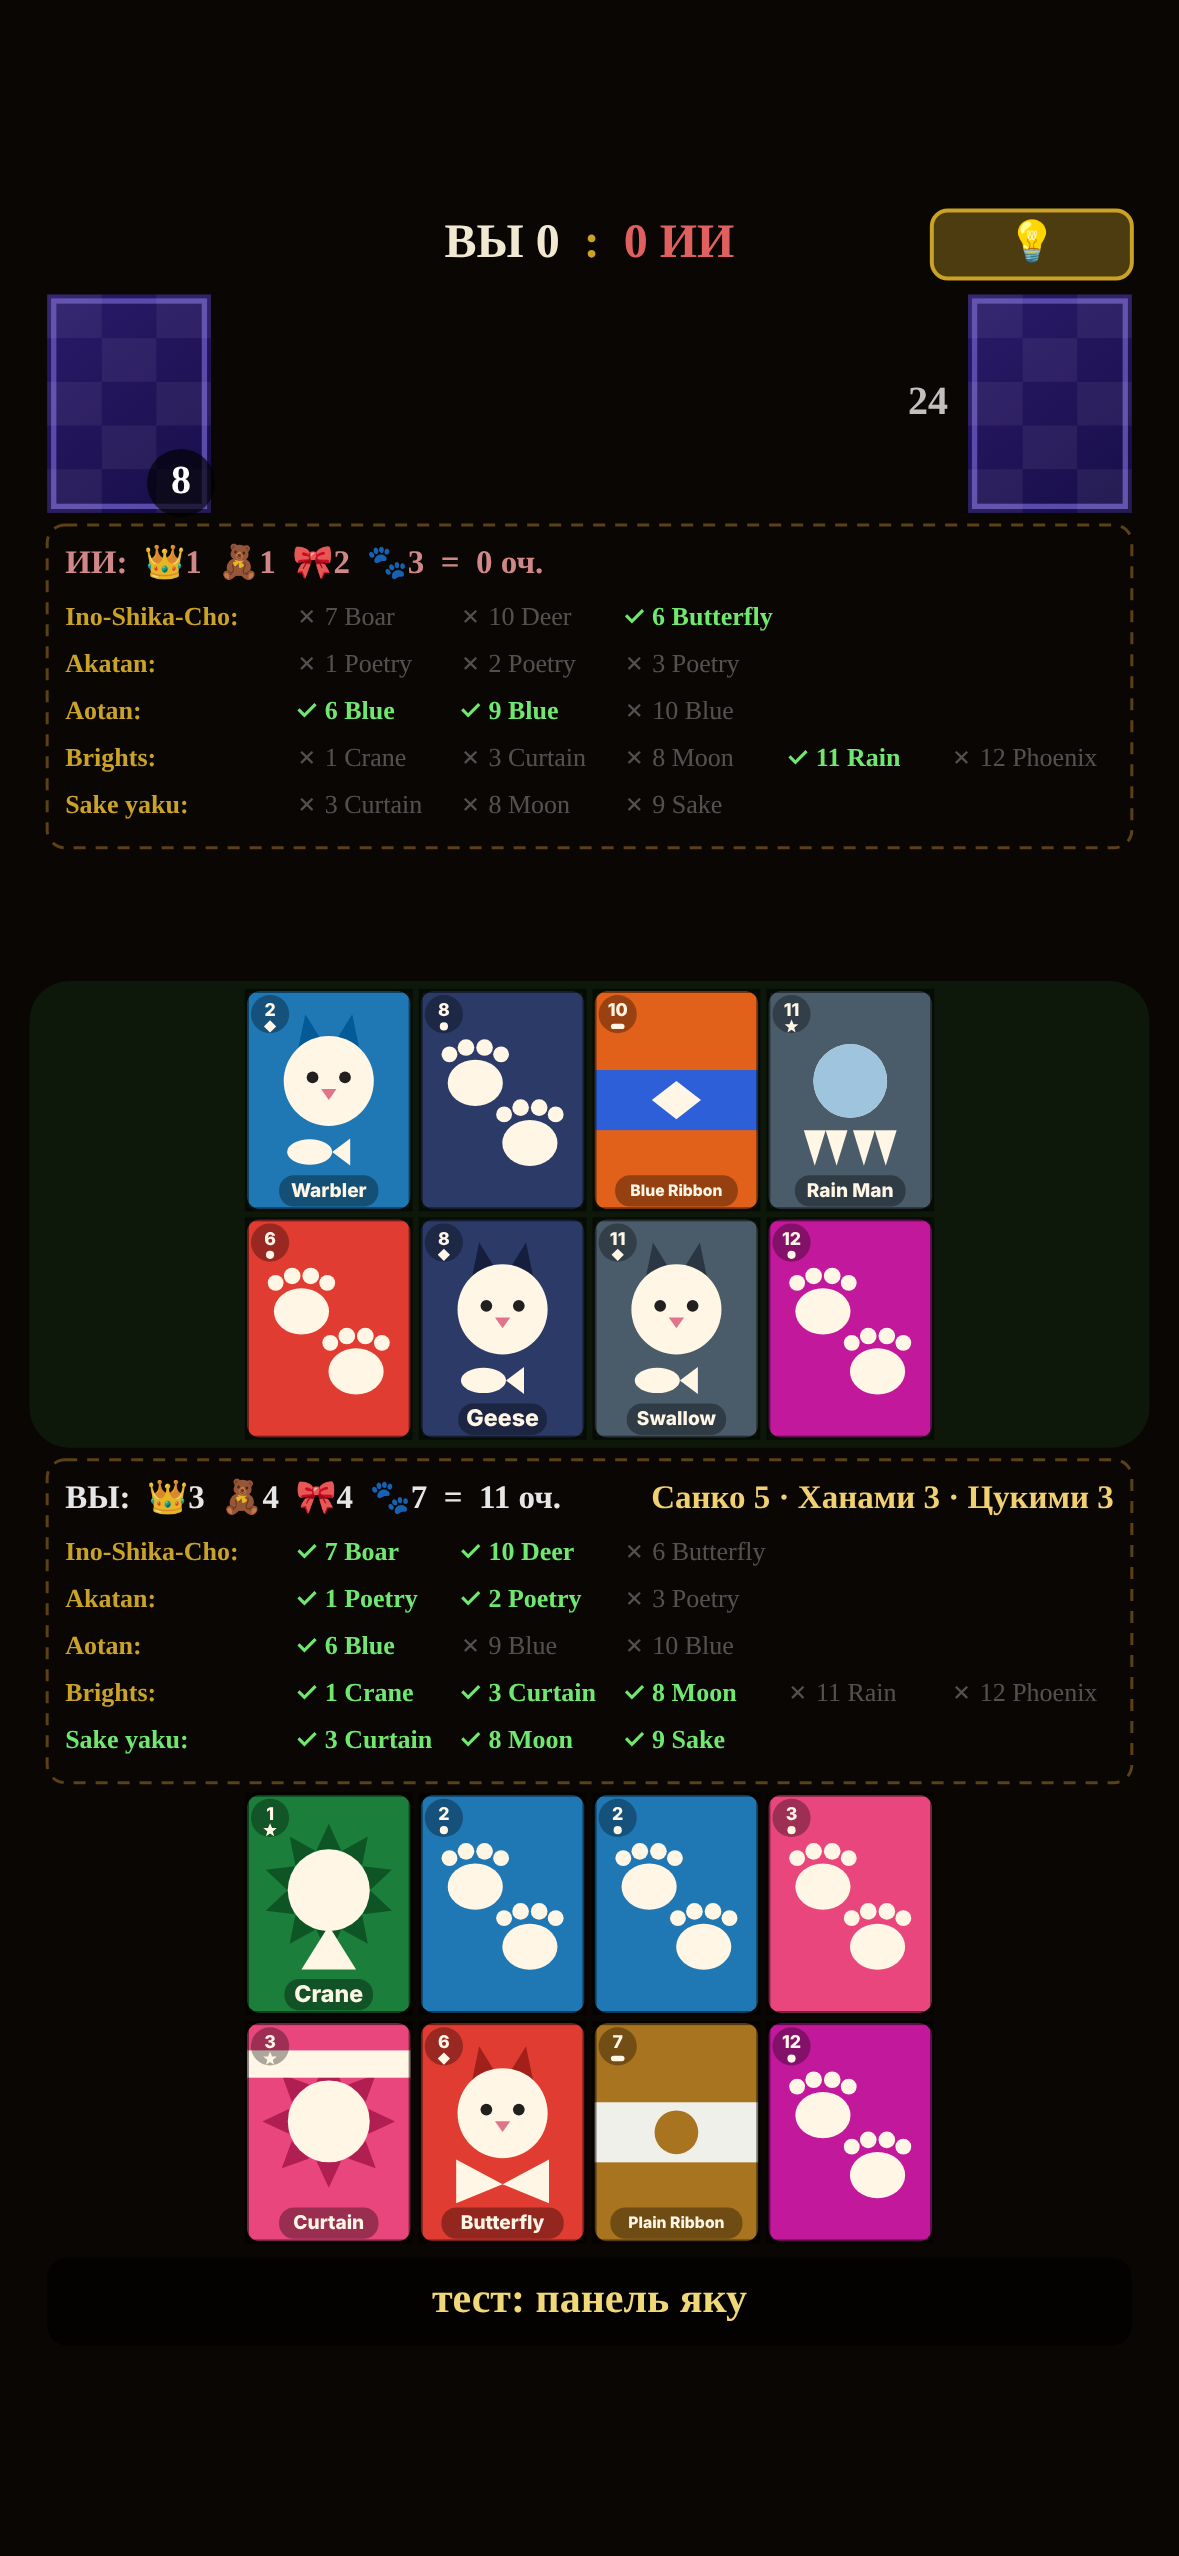
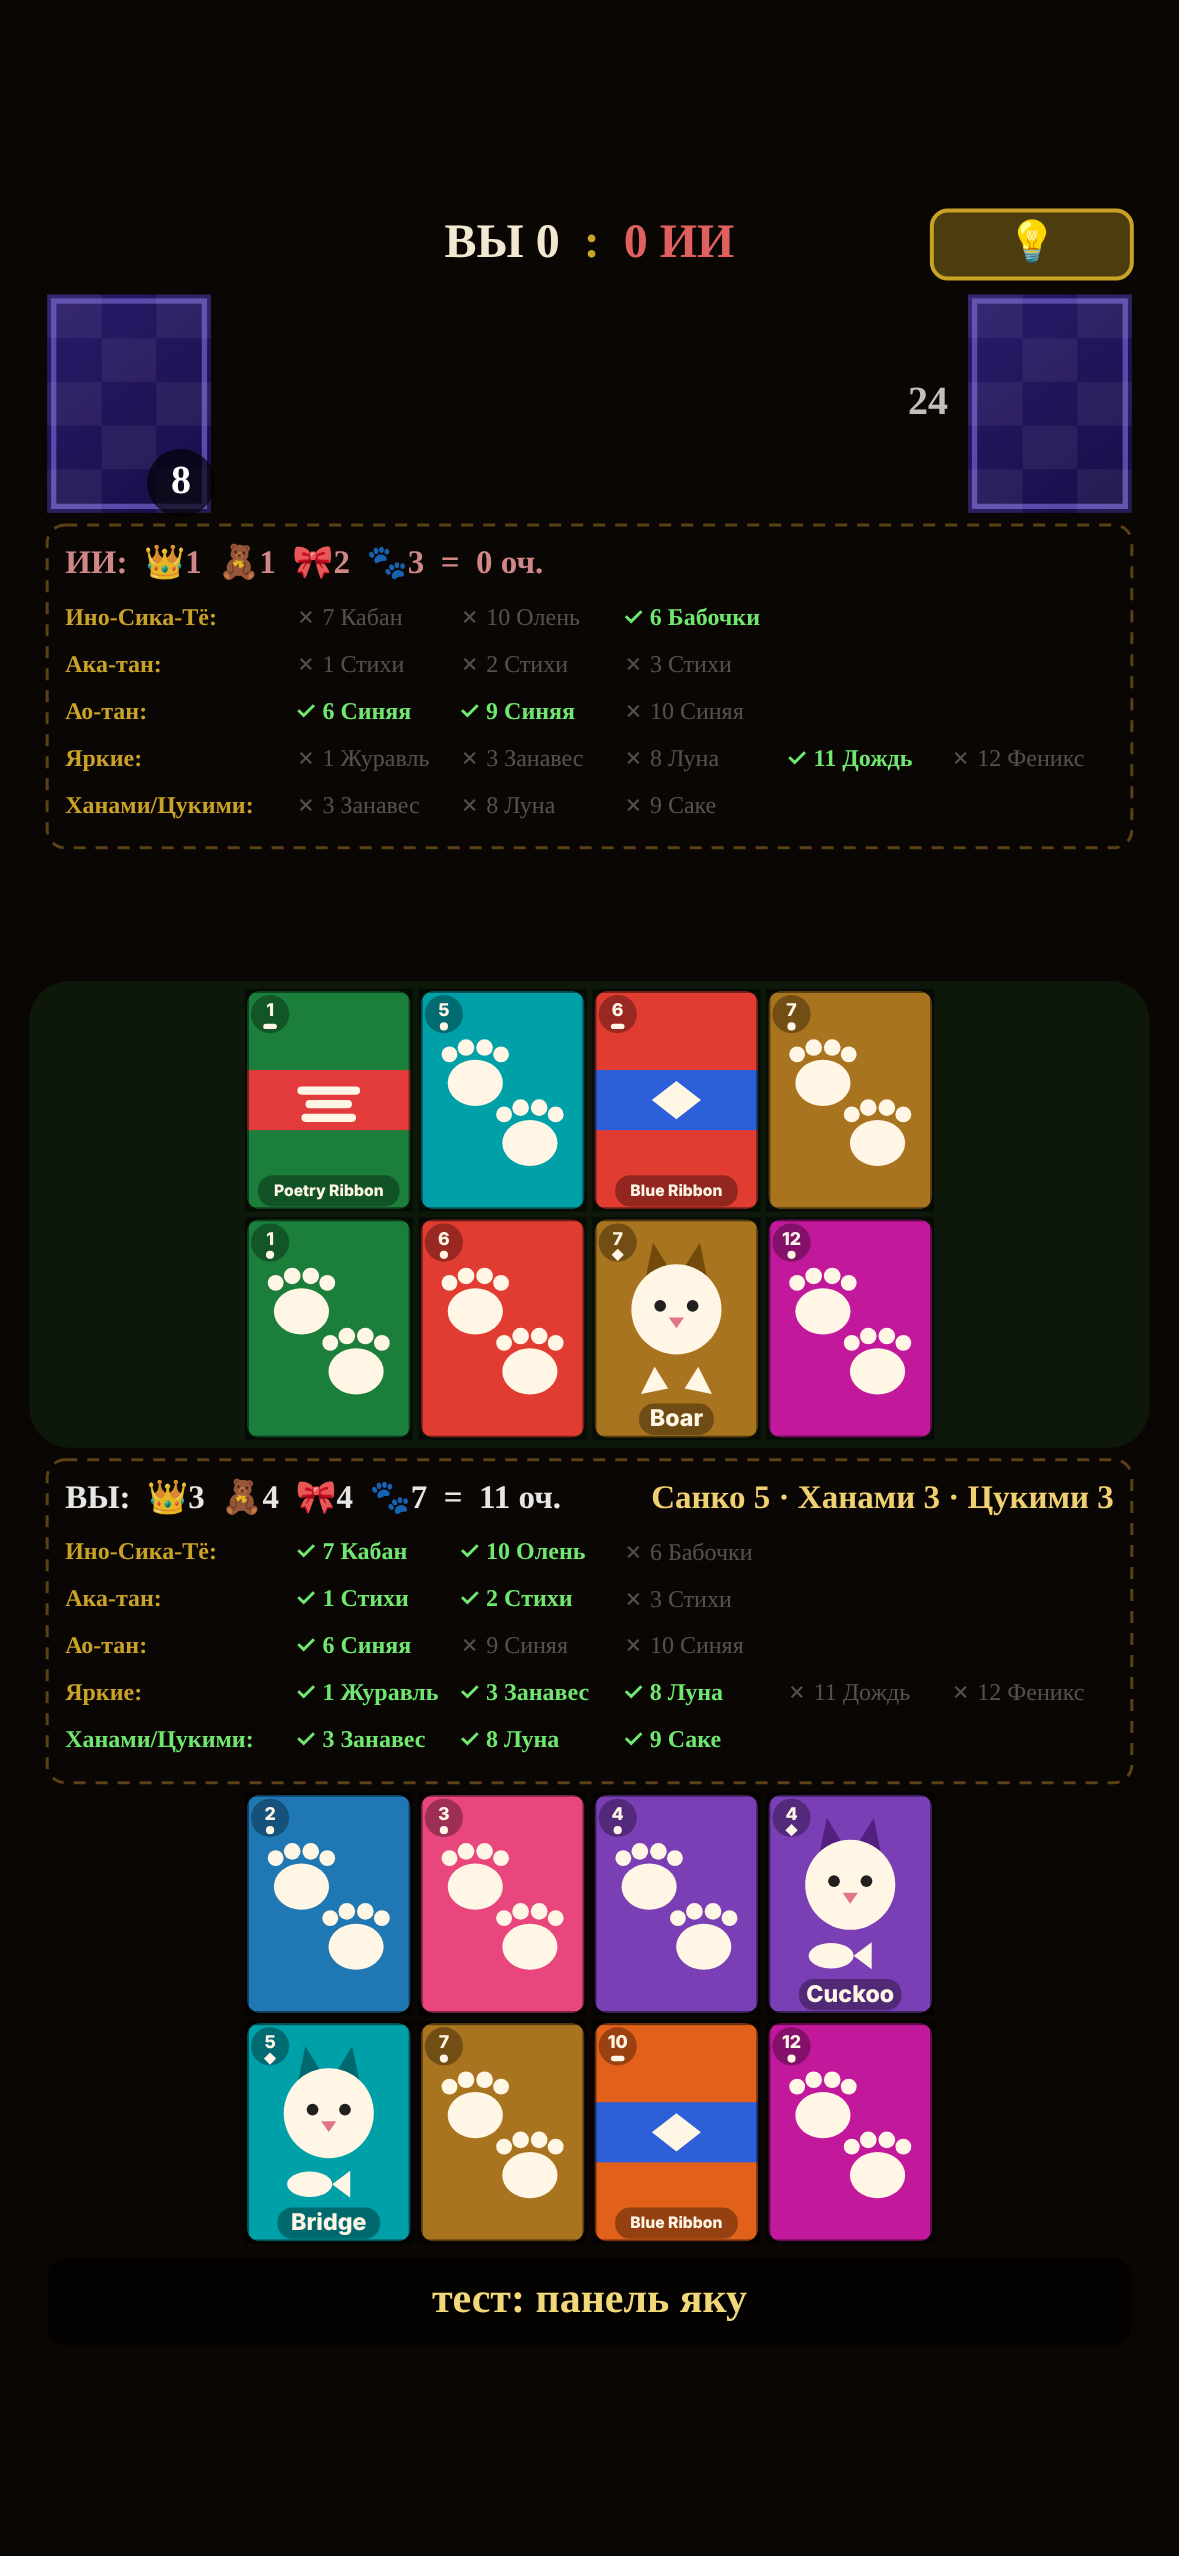
UI: прогресс к яку по-русски
Claude-Session: https://claude.ai/code/session_01YWBhc7XyH6Quahzkpjq16G

diff --git a/index.html b/index.html
@@ -542,14 +542,14 @@ function drawYakuPlaceholder(r,cap,who){
   }
   const has=(m,sub,t)=>cap.some(c=>c.m===m&&(!sub||c.sub===sub)&&(!t||c.t===t));
   const rows=[
-    {label:'Ino-Shika-Cho',items:[['7 Boar',has(7,'boar')],['10 Deer',has(10,'deer')],['6 Butterfly',has(6,'butterfly')]]},
-    {label:'Akatan',items:[['1 Poetry',has(1,'poetry')],['2 Poetry',has(2,'poetry')],['3 Poetry',has(3,'poetry')]]},
-    {label:'Aotan',items:[['6 Blue',has(6,'blue')],['9 Blue',has(9,'blue')],['10 Blue',has(10,'blue')]]},
-    {label:'Brights',items:[['1 Crane',has(1,null,'bright')],['3 Curtain',has(3,null,'bright')],
-      ['8 Moon',has(8,null,'bright')],['11 Rain',has(11,null,'bright')],['12 Phoenix',has(12,null,'bright')]]},
-    {label:'Sake yaku',items:[['3 Curtain',has(3,null,'bright')],['8 Moon',has(8,null,'bright')],['9 Sake',has(9,'sake')]]},
+    {label:'Ино-Сика-Тё',items:[['7 Кабан',has(7,'boar')],['10 Олень',has(10,'deer')],['6 Бабочки',has(6,'butterfly')]]},
+    {label:'Ака-тан',items:[['1 Стихи',has(1,'poetry')],['2 Стихи',has(2,'poetry')],['3 Стихи',has(3,'poetry')]]},
+    {label:'Ао-тан',items:[['6 Синяя',has(6,'blue')],['9 Синяя',has(9,'blue')],['10 Синяя',has(10,'blue')]]},
+    {label:'Яркие',items:[['1 Журавль',has(1,null,'bright')],['3 Занавес',has(3,null,'bright')],
+      ['8 Луна',has(8,null,'bright')],['11 Дождь',has(11,null,'bright')],['12 Феникс',has(12,null,'bright')]]},
+    {label:'Ханами/Цукими',items:[['3 Занавес',has(3,null,'bright')],['8 Луна',has(8,null,'bright')],['9 Саке',has(9,'sake')]]},
   ];
-  const y0=top+lh+8, rh=(r.y+r.h-pad-y0)/rows.length, LW=230, fs=Math.round(Math.min(26,rh*0.62));
+  const y0=top+lh+8, rh=(r.y+r.h-pad-y0)/rows.length, LW=230, fs=Math.round(Math.min(24,rh*0.62));
   const iw=(r.w-2*pad-LW)/5;
   rows.forEach((row,ri)=>{
     const cy=y0+ri*rh+rh/2, done=row.items.every(i=>i[1]);

diff --git a/docs/ui-layout.md b/docs/ui-layout.md
@@ -25,8 +25,8 @@
   Отдельные счётчики очков раунда в ячейках убраны.
 - **Яку — пока текстом, как в старой версии** (по слову пользователя), в обоих
   блоках — ИИ над столом, игрок под столом: строка «ВЫ/ИИ: 👑 🧸 🎀 🐾 = очки»,
-  справа собранные яку, ниже «прогресс к яку» — Ino-Shika-Cho, Akatan, Aotan,
-  Brights, Sake yaku с ✓/✗ по нужным картам (`drawYakuPlaceholder`). Оформление
+  справа собранные яку, ниже «прогресс к яку» — Ино-Сика-Тё, Ака-тан, Ао-тан,
+  Яркие, Ханами/Цукими с ✓/✗ по нужным картам (`drawYakuPlaceholder`). Оформление
   ячеек — по описанию пользователя позже (черновик 12 ячеек-иконок — коммит 531cd6c).
 - **Рука** 2×4 по центру экрана, промежуток 10 — как на столе, колонки руки и стола
   (2×4) совпадают; полоса 100 у нижнего края зоны, над ней 10.
